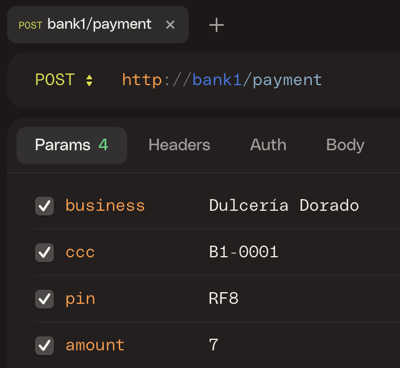
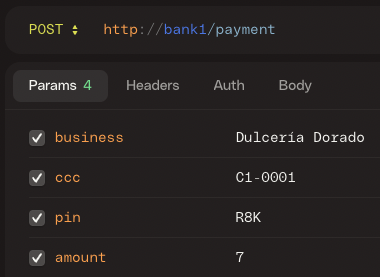
Fix some details of bank assignment

diff --git a/ut3/te1/README.md b/ut3/te1/README.md
@@ -18,11 +18,13 @@
 django-admin startproject bank .
 ```
 
-🐱 El repositorio GitHub también se llamará `bank`, deberá ser **privado** y tendrán que añadir al profe (`@sdelquin`) como colaborador para que pueda ver el código.
+🐱 El repositorio GitHub también se llamará `bank`, deberá ser **privado** y habrá que añadir al profe (`@sdelquin`) como colaborador para que pueda ver el código.
 
 ## Modelo entidad-relación
 
 ![ER Banco](./images/bank.svg)
+
+> 💡 Tanto `password` como `pin` habrá que almacenarlos como un hash en la base de datos utilizando para ello el algoritmo [PBKDF2](https://docs.djangoproject.com/en/4.2/topics/auth/passwords/).
 
 ## Tipos de objetos
 
@@ -63,7 +65,7 @@ El código de cuenta cliente seguirá la siguiente expresión regular:
 
 `A\d-\d\d\d\d`
 
-Las cuentas, dentro del mismo banco, se irán asignando de manera correlativa. Por ejemplo, para el banco `B1`:
+Las cuentas, dentro del mismo banco, se irán asignando de manera correlativa. Por ejemplo, **para el banco 1**:
 
 - `A1-0001`
 - `A1-0002`
@@ -77,7 +79,7 @@ El código de tarjeta cliente seguirá la siguiente expresión regular:
 
 `C\d-\d\d\d\d`
 
-Las tarjetas, dentro del mismo, se irán asignando de manera correlativa. Por ejemplo, para el banco `B1`:
+Las tarjetas, dentro del mismo, se irán asignando de manera correlativa. Por ejemplo, **para el banco 1**:
 
 - `C1-0001`
 - `C1-0002`
@@ -113,7 +115,7 @@ Con los campos:
 | ---------- | -------------------------------------------------- |
 | `business` | Comercio                                           |
 | `ccc`      | Código de **tarjeta cliente** (_client card code_) |
-| `pin`      | Código de seguridad de la tarjeta **hasheado**     |
+| `pin`      | Código de seguridad de la tarjeta → **hasheado**   |
 | `amount`   | Importe                                            |
 
 Códigos de respuesta:
@@ -133,7 +135,7 @@ Podemos simular un pago utilizando la herramienta de línea de comandos [curl](h
 Ejemplo de uso:
 
 ```bash
-curl -X POST -d '{"business": "Dulcería Dorado", "ccc": "B1-0001", "pin": "RF8", "amount": "7"}' http://bank1/payment
+curl -X POST -d '{"business": "Dulcería Dorado", "ccc": "C1-0001", "pin": "R8K", "amount": "7"}' http://bank1/payment
 ```
 
 ##### Navegador
@@ -172,7 +174,7 @@ Códigos de respuesta:
 
 Dado que **debe haber ingresos** en la cuenta para que sea sostenible, podemos simular el ingreso de la nómina utilizando una transferencia.
 
-Para ello podemos simular una petición POST de tipo transferencia del mismo modo que hicimos para [simular pagos](#simulando-pagos).
+Para ello realizamos una petición POST de tipo transferencia del mismo modo que hicimos para [simular pagos](#simulando-pagos).
 
 ### Comisiones
 
